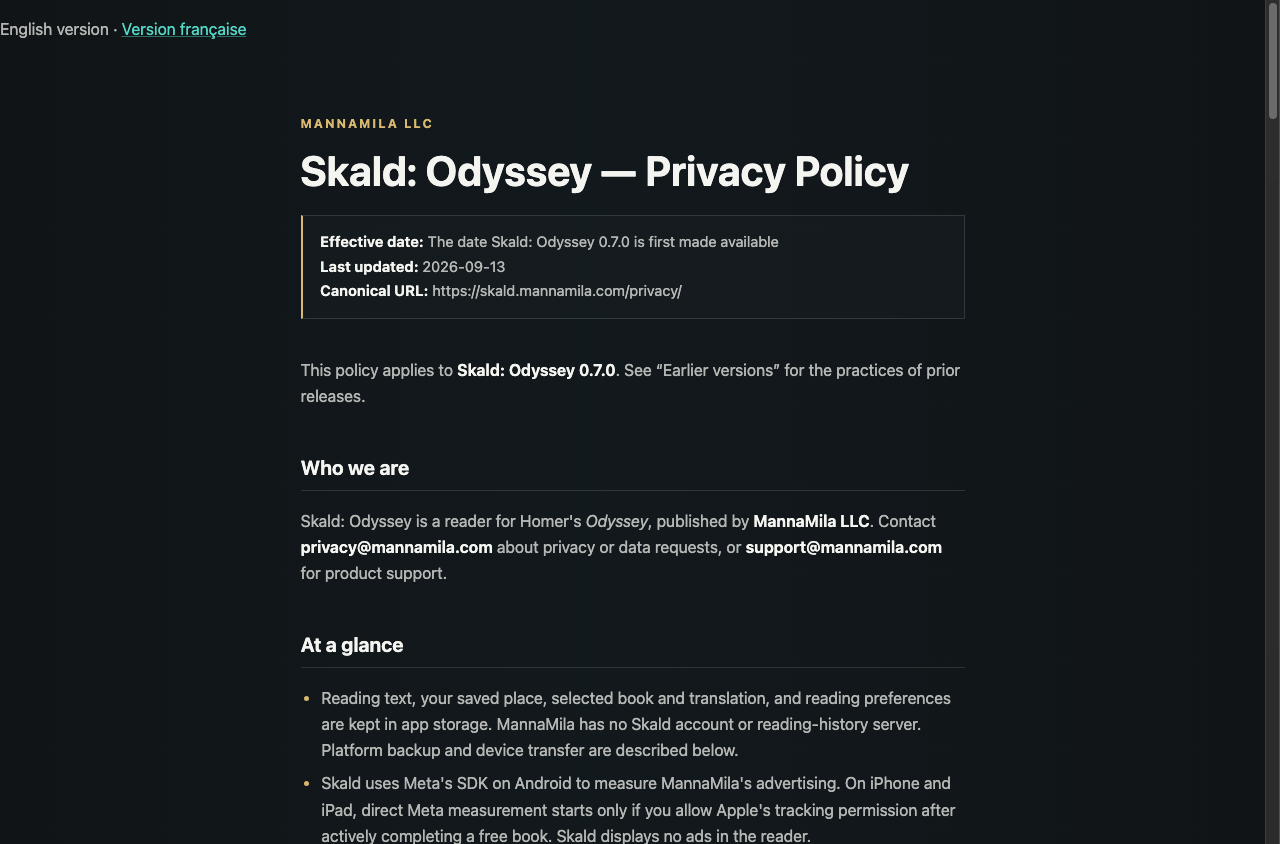
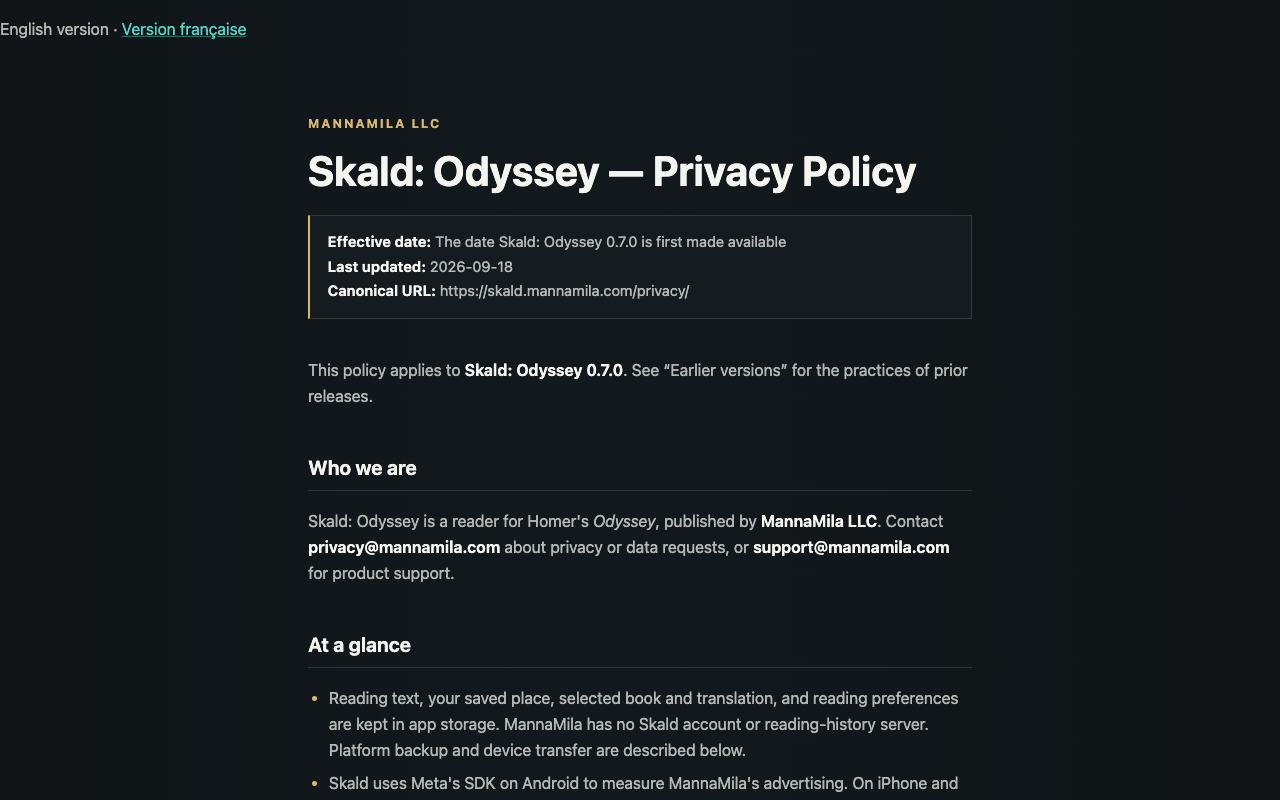
docs(skald): republish the privacy policy for 0.7.0 — consent gate, EU offline tier
Regenerate skald/privacy/index.html from MannaMila/skald docs/legal/privacy-policy.md
at ec9104e4b (last updated 2026-09-18), rendered verbatim with the same markup method
as #20: the converter reproduces the previously published page byte-for-byte from its
2026-09-13 input. New reviewed text: Android consent/measurement (PR #411, record
release-0.7.0-eu-measurement-consent-2026-09-17) and the EU offline tier (PR #414,
record release-0.7.0-eu-offline-2026-09-18). Page chrome, styles, retire-analytics.js
and navigation are unchanged; no heading anchors are linked from elsewhere on the site.

The French page keeps its reviewed 2026-09-13 body (no reviewed translation exists yet
for the #411/#414 paragraphs). Its <head> gains the retire-analytics.js loader that
scripts/test-analytics-contract.mjs requires on every route and #20 omitted.

Evidence in docs/privacy-0.7.0: visible-text parity against both reviewed sources,
390px and 1280px viewport renders with no horizontal overflow, and the app repo's
hosted-policy gate markers passing against the local render.

Claude-Session: https://claude.ai/code/session_01N4greb4yGTVcg1BGssikNz

diff --git a/skald/privacy/index.html b/skald/privacy/index.html
@@ -109,7 +109,7 @@
     <p class="eyebrow">MannaMila LLC</p>
 <h1>Skald: Odyssey — Privacy Policy</h1>
 <p class="meta"><strong>Effective date:</strong> The date Skald: Odyssey 0.7.0 is first made available<br>
-<strong>Last updated:</strong> 2026-09-13<br>
+<strong>Last updated:</strong> 2026-09-18<br>
 <strong>Canonical URL:</strong> https://skald.mannamila.com/privacy/</p>
 <p>This policy applies to <strong>Skald: Odyssey 0.7.0</strong>. See “Earlier versions” for
 the practices of prior releases.</p>
@@ -124,9 +124,14 @@ Contact <strong>privacy@mannamila.com</strong> about privacy or data requests, o
   reading-history server. Platform backup and device transfer are described below.</li>
 <li>Skald uses Meta's SDK on Android to measure MannaMila's advertising. On iPhone
   and iPad, direct Meta measurement starts only if you allow Apple's tracking
-  permission after actively completing a free book. Skald displays no ads in the reader.</li>
-<li>The app can check MannaMila's content service for reviewed library updates
-  no more than once an hour. That request carries no reading data.</li>
+  permission after actively completing a free book. Where the device's region
+  setting or time zone, or on Android its mobile network or SIM, puts it in the
+  European Union, Skald itself sends nothing to Meta on either platform and never
+  asks. Skald displays no ads in the reader.</li>
+<li>Outside the European Union, the app can check MannaMila's content service for
+  reviewed library updates no more than once an hour. That request carries no
+  reading data. In the European Union it makes no such request and reads the
+  library already on the device.</li>
 <li>Reading reminders are scheduled locally. You control them through your
   device's notification settings.</li>
 <li>Apple or Google handles purchases. Skald receives ownership information,
@@ -154,7 +159,10 @@ copy; a later Apple restore may restore that data. Purchase ownership can also
 be recovered from the same store and store account.</p>
 <h2>Advertising measurement</h2>
 <p>MannaMila advertises Skald and asks Meta's SDK to measure those ads. The SDK
-handles install and app-open activity. After each successful load of a free
+sends an install event for attribution. On Android, Skald turns the SDK's
+automatic event logging off, so it sends no app-open, app-close or
+session-length events; the iPhone and iPad section below says what that platform
+sends. After each successful load of a free
 Odyssey book, Skald can ask the SDK to log a <code>ViewedContent</code> event that can repeat
 and does not identify the book. Skald also asks the SDK to log checkout for an
 unlock and a confirmed purchase after a matching locally initiated checkout has
@@ -210,11 +218,31 @@ value <code>0</code> through Apple's SKAdNetwork API. Skald has no custom SKAdNe
 for free-book opening, checkout, or purchase. Apple controls whether an aggregated
 postback is generated, its contents, and its delivery. This Apple path does not send
 Meta a store price or currency.</p>
+<p>Where your device's region setting or time zone is in the European Union, Skald
+never asks for the tracking permission, shares no events with Meta, and submits
+no SKAdNetwork conversion value. Apple may still send its own anonymous
+ad-attribution postback for an install it attributes to an ad; Skald cannot stop
+that. Skald itself sends Meta nothing.</p>
 <h3>Controls, retention and deletion</h3>
-<p>Android advertising measurement has no in-app opt-out. Android's system advertising
-controls can reset or delete the advertising ID where available. On iPhone and iPad,
-Apple's tracking permission controls future direct Meta measurement. Denial does not
-limit the reader or its purchase features.</p>
+<p>On Android, About &amp; Privacy carries an allow-or-turn-off control for advertising
+measurement, on every device and in every region outside the European Union.
+Skald treats a device as in the European Union when its current mobile network's
+country, its SIM's country, its region setting or its time zone says so; it
+decides that on the device each time it opens, and none of them is stored or
+sent. On such a device measurement is off, there is nothing to allow, and About &amp;
+Privacy says so. Where your connection appears to be in the United States, Canada,
+Australia or New Zealand, and neither your device's current mobile network nor its
+SIM points to a country outside them, measurement starts before you choose, so the
+install event, and any free-book, checkout or purchase events logged in the
+meantime, may already have reached Meta by the time you turn it off. Otherwise,
+outside the European Union, it stays off until you allow it. If your device isn't
+on a mobile network and has no SIM, the connection alone decides whether it
+starts. Turning it off stops new measurement at once, and anything not yet sent is
+deleted at the next launch without being sent; a request already under way or
+already scheduled can still finish. Android's system advertising controls can
+reset or delete the advertising ID where available. On iPhone and iPad, Apple's
+tracking permission controls future direct Meta measurement. Denial does not limit
+the reader or its purchase features.</p>
 <p>Meta controls retention and deletion of direct measurement data it receives under
 its own privacy policy. MannaMila cannot directly locate or delete records tied only
 to Meta's SDK installation identifier, and Skald's old Analytics ID cannot identify
@@ -236,10 +264,17 @@ not contain a receipt, transaction ID or purchase token.</p>
 <p>Restore purchase uses the same store and store account. Apple and Google process
 their store services under their own privacy notices.</p>
 <h2>Content updates</h2>
-<p>At most once an hour when you open Skald, it can contact
-<strong>https://delivery.mannamila.com</strong>, a MannaMila service hosted on Cloudflare,
-for reviewed library updates. There is no separate in-app switch. Requests
-and downloads use HTTPS. A failed request leaves the existing library available.</p>
+<p>At most once an hour when you open Skald outside the European Union, it can
+contact <strong>https://delivery.mannamila.com</strong>, a MannaMila service hosted on
+Cloudflare, for reviewed library updates. There is no separate in-app switch.
+Requests and downloads use HTTPS. A failed request leaves the existing library
+available.</p>
+<p>Skald treats a device as in the European Union when its region setting or time
+zone says so, or on Android when its current mobile network's country or its
+SIM's country does; it decides that on the device each time it opens, without
+storing or sending any of them. Such a device does not contact the content
+service at all and reads the library that shipped with the app or was installed
+earlier.</p>
 <p>The request carries no reading history, saved place, story passage, selected
 book or translation, legacy Analytics ID, advertising ID or purchase record.
 Routine network information such as the request IP address is processed to serve

diff --git a/skald/privacy/fr/index.html b/skald/privacy/fr/index.html
@@ -7,6 +7,7 @@
 <link rel="canonical" href="https://skald.mannamila.com/privacy/fr/">
 <link rel="alternate" hreflang="en" href="https://skald.mannamila.com/privacy/">
 <link rel="alternate" hreflang="fr" href="https://skald.mannamila.com/privacy/fr/">
+<script src="../../retire-analytics.js" defer></script>
 <style>
       :root {
         color-scheme: dark;

diff --git a/docs/privacy-0.7.0/README.md b/docs/privacy-0.7.0/README.md
@@ -1,22 +1,31 @@
 # Reviewed Skald 0.7.0 privacy pages
 
-The English page renders the canonical policy approved in MannaMila/skald's
-2026-09-13 iOS ATT arbitration. The French page renders its independently reviewed
-translation. Both use an effective date tied to first availability of 0.7.0 and
-retain a separate earlier-versions explanation.
+The English page renders the canonical hosted policy from MannaMila/skald
+`docs/legal/privacy-policy.md` at `ec9104e4b` (last updated 2026-09-18). That text
+is byte-identical to `docs/sessions/2026-09-18-eu-offline/resolved/hosted-privacy-policy-proposed.md`
+after its two-line preamble, and the app's release-readiness gate pins it. Beyond the
+2026-09-13 iOS ATT arbitration that the previous publication rendered, it carries the
+Android consent/measurement text (PR #411, record
+`release-0.7.0-eu-measurement-consent-2026-09-17`) and the EU offline tier (PR #414,
+record `release-0.7.0-eu-offline-2026-09-18`). Every sentence is rendered verbatim.
 
[4 lines of base64/hex data omitted]
-The app repository records the review roles, models, findings, and decisions in
-`docs/sessions/2026-09-13-ios-att/`; French approval was committed as `7e4765efd`.
 
-`parity-report.json` proves every visible policy word matches its approved source,
-and that the two staging repositories contain identical policy HTML. The 390px and
-1280px renders and `visual-report.json` show no horizontal overflow. Existing site
-styles and language navigation are retained; the French body now uses the shared
-bounded reading column.
+The French page still renders the independently reviewed 2026-09-13 translation. No
+reviewed French text exists yet for the paragraphs added by PR #411 and PR #414, so its
+body is unchanged and its "Dernière mise à jour" stays 2026-09-13; the English page at
+`/privacy/` is the current authoritative text until a reviewed translation lands. The
+only French change is the `retire-analytics.js` loader in `<head>`, which the
+analytics-retirement contract requires on every route and which the previous
+publication omitted.
 
-This is a scoped privacy update, not a full promotion of the canonical site tree.
-The independently maintained Mosaic, Translation Atlas, translators, and other
-published surfaces remain outside the patch. No app-store operation is included.
+`parity-report.json` proves every visible policy word on each page matches its reviewed
+source. The 390px and 1280px viewport renders and `visual-report.json` show no
+horizontal overflow, the updated date on the English page, and that the retirement
+loader is the only script on either page. Page chrome, styles, heading structure and
+language navigation are unchanged from the previous publication.
+
+This is a scoped privacy update, not a full promotion of the canonical site tree. No
+app-store operation is included.
